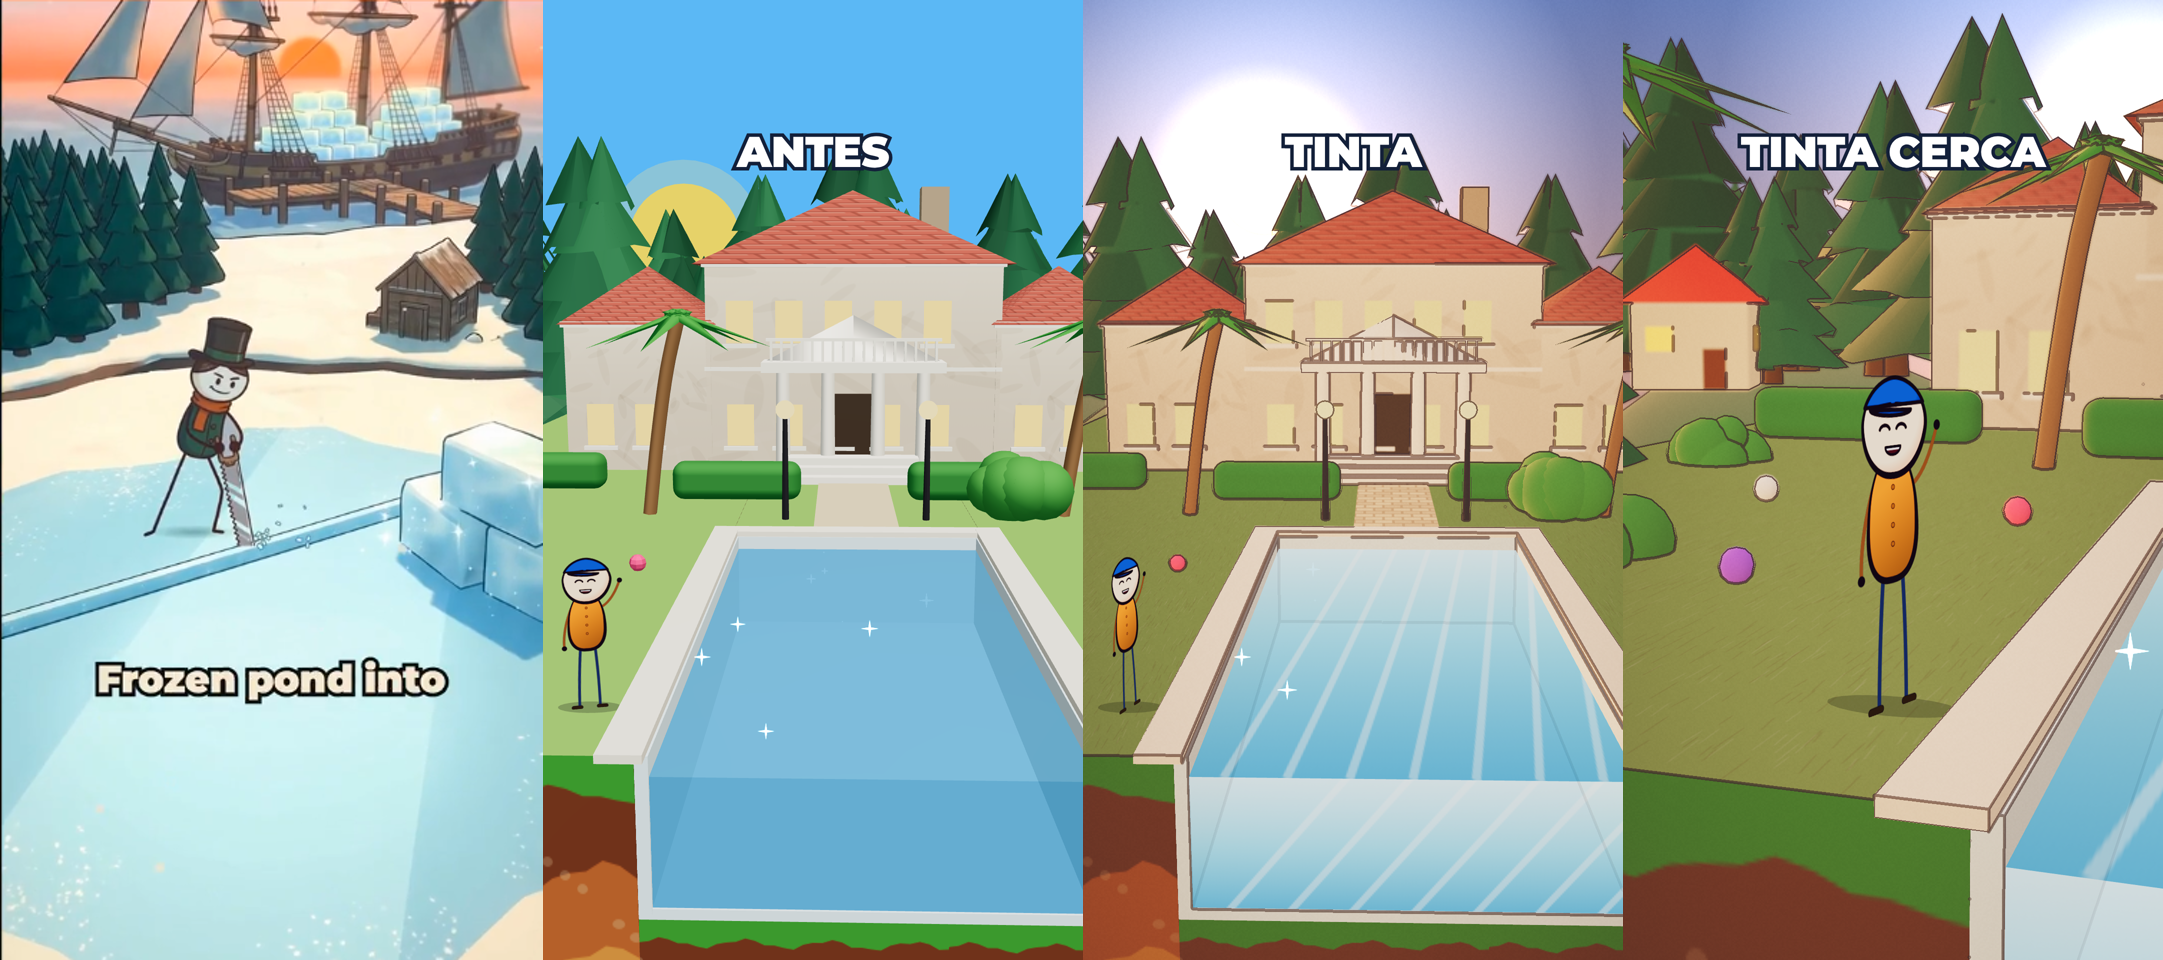
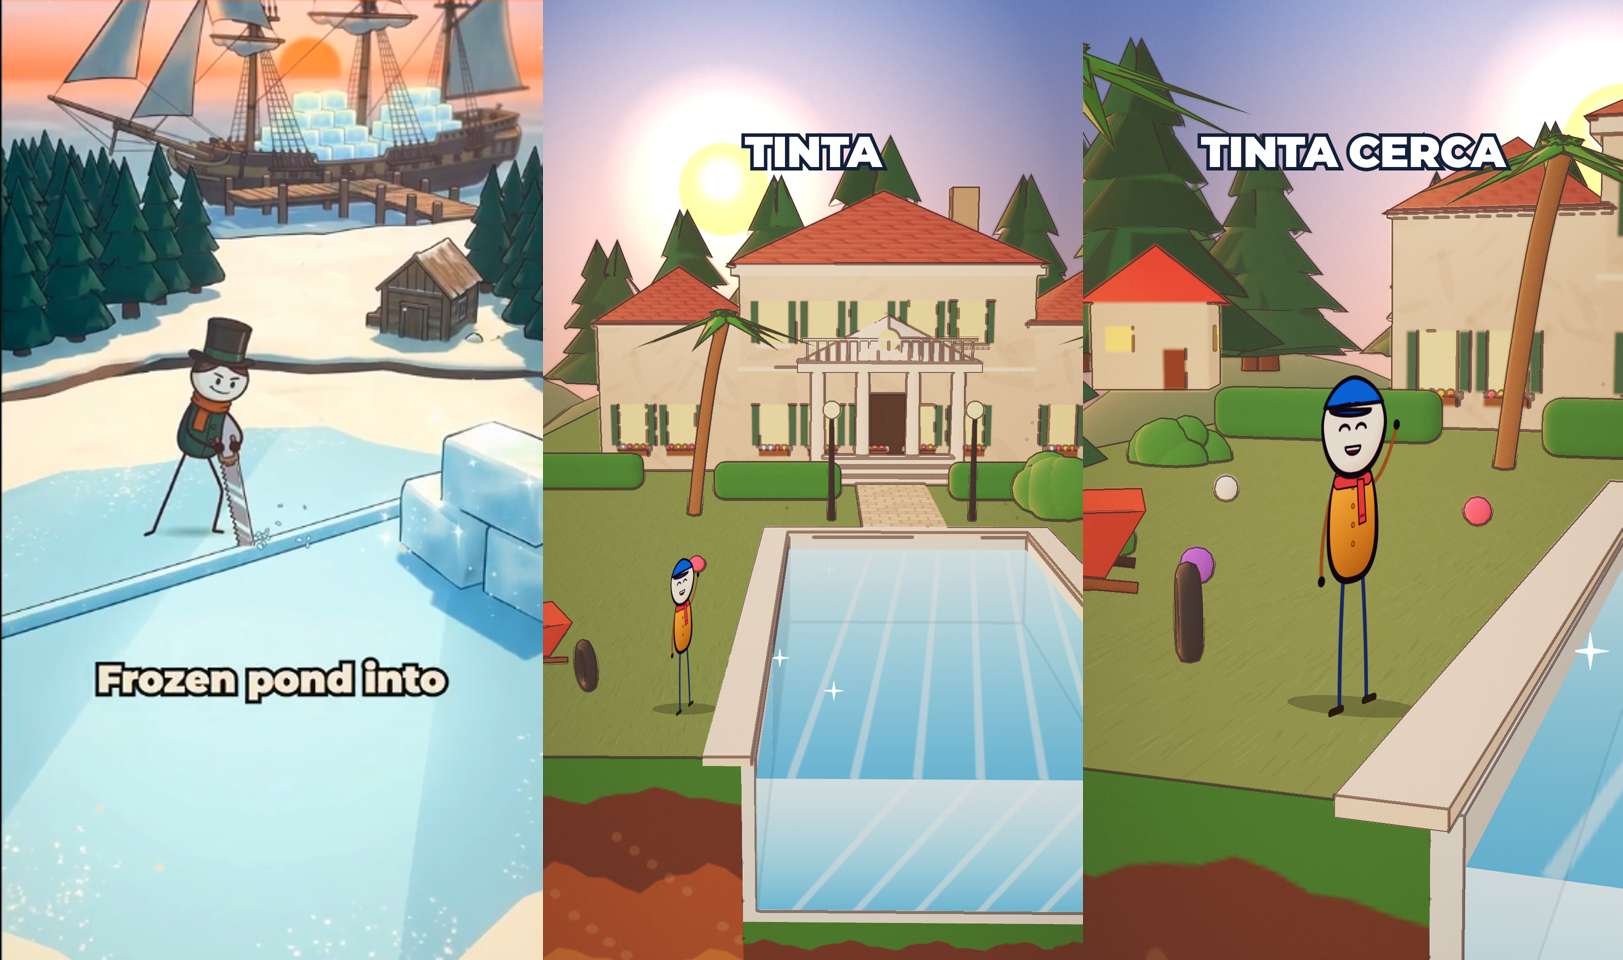
ink look v4: mansion details, scarf for Toon, site props, visible low sun
Claude-Session: https://claude.ai/code/session_01F2TMiqHjkL4xcRcZuEi5yT

diff --git a/videos/prueba-tinta/world3d.ts b/videos/prueba-tinta/world3d.ts
@@ -1,7 +1,7 @@
 // Look test for the "ink" style: the same backyard (cutaway, finished pool, worker) with a mansion and a rich background,
 // once in the channel's current look and once with the cartoon ink finish at sunset. Prefix pt.
 
-const PT_WORKER: Toon.Outfit = { jacket: '#ff8a1f', pants: '#2f5fb5', boots: '#3a2a1e', hat: 'cap', cap: '#1f5fd6' };
+const PT_WORKER: Toon.Outfit = { jacket: '#ff8a1f', pants: '#2f5fb5', boots: '#3a2a1e', hat: 'cap', cap: '#1f5fd6', scarf: '#d93b3b' };
 const ptSet = (w: World, ink: boolean) => {
   if (ink) inkLights(w, 'sunset'); else dioLights(w);
   // land: a block cut open at the front, the pool in the middle
@@ -22,14 +22,15 @@ const ptSet = (w: World, ink: boolean) => {
   const umb = new THREE.ConeGeometry(1.2, 0.5, 8); w.add(p3Mesh(umb, dioSmooth('#ff4b4b', 0.6), { p: [4.4, 2.1, -2.5] }));
   // far: neighbours, pines, hills, mountains, clouds, sun
   for (const [x, z, s] of [[-14, -22, 1.2], [13, -24, 1.3], [-20, -30, 1.1]]) w.add(dioHouse([x, 0, z], 0.3, s));
-  for (let i = 0; i < 60; i++) { const x = -30 + (i * 1.7) % 60, z = -24 - ((i * 7) % 5) * 2.2; w.add(inkPine([x, 0, z], 1.8 + ((i * 3) % 5) * 0.35, ['#1f5a3a', '#2a6b43', '#184d31'][i % 3], i + 1)); }
+  for (let i = 0; i < 60; i++) { const x = -30 + (i * 1.7) % 60, z = -24 - ((i * 7) % 5) * 2.2; if (x > -14 && x < -4 && z > -30) continue; w.add(inkPine([x, 0, z], 1.8 + ((i * 3) % 5) * 0.35, ['#1f5a3a', '#2a6b43', '#184d31'][i % 3], i + 1)); }
   for (const [x, z, s] of [[-8, -6, 1.3], [8.5, -3, 1.1], [-9, 1, 1.0]]) w.add(inkPine([x, 0, z], s, '#2a6b43'));
-  inkHills(w, -45, ['#2c6a47', '#356f4b', '#3d7a52']); if (ink) { w.add(inkSunGlow([-9, 12, -70], 50)); w.add(p3Mesh(new THREE.CircleGeometry(3.4, 32), new THREE.MeshBasicMaterial({ color: '#ffb066', fog: false }), { p: [-9, 11.5, -72] })); } else { const sun = w.add(dioSun()); sun.position.set(-10, 7, -58); sun.scale.setScalar(1.6); }
+  inkHills(w, -45, ['#2c6a47', '#356f4b', '#3d7a52']); if (ink) { w.add(inkSunGlow([-9, 12, -70], 50, '#ff9a55')); w.add(p3Mesh(new THREE.CircleGeometry(3.4, 32), new THREE.MeshBasicMaterial({ color: '#ff8c42', fog: false }), { p: [-9, 11.5, -72] })); } else { const sun = w.add(dioSun()); sun.position.set(-10, 7, -58); sun.scale.setScalar(1.6); }
+  if (ink) w.add(inkSiteProps([-4.3, 0, -1.2], 0.5));
   const worker = w.add(dioToon(PT_WORKER, 1.75, 4)); worker.position.set(-2.6, 0, -1.0);
   return { worker, spark };
 };
 defineVisuals({
-  antes: { bg: '#5bb8f5', build(w) { const S = ptSet(w, false); return (t) => { S.spark.pose(t * 3); S.worker.pose(w.camera, { expr: 'grin', mode: 'stand', wave: 1 }); w.look([-0.3, 3.8, 8.0], [-0.7, 0.9, -8], 50); }; } },
-  tinta: { bg: '#5bb8f5', build(w) { const S = ptSet(w, true); inkLook(w); return (t) => { S.spark.pose(t * 3); S.worker.pose(w.camera, { expr: 'grin', mode: 'stand', wave: 1 }); w.look([-0.3, 3.8, 8.0], [-0.7, 0.9, -8], 50); }; } },
+  antes: { bg: '#5bb8f5', build(w) { const S = ptSet(w, false); return (t) => { S.spark.pose(t * 3); S.worker.pose(w.camera, { expr: 'grin', mode: 'stand', wave: 1 }); w.look([-1.3, 3.8, 8.0], [-1.5, 0.9, -8], 50); }; } },
+  tinta: { bg: '#5bb8f5', build(w) { const S = ptSet(w, true); inkLook(w); return (t) => { S.spark.pose(t * 3); S.worker.pose(w.camera, { expr: 'grin', mode: 'stand', wave: 1 }); w.look([-1.3, 3.8, 8.0], [-1.5, 0.9, -8], 50); }; } },
   'tinta-cerca': { bg: '#5bb8f5', build(w) { const S = ptSet(w, true); inkLook(w, { focus: 6 }); return (t) => { S.spark.pose(t * 3); S.worker.pose(w.camera, { expr: 'grin', mode: 'stand', wave: 1 }); w.look([-1.0, 1.7, 4.0], [-2.6, 1.0, -1.0], 42); }; } },
 });

diff --git a/styles/3d/ink.ts b/styles/3d/ink.ts
@@ -142,6 +142,13 @@ const inkMansion = (p: Vec3, ry = 0, s = 1) => { const g = p3Group(), wall = ink
   // balcony rail on the first floor
   for (let x = -1.6; x <= 1.6; x += 0.2) g.add(p3Mesh(p3Box(0.05, 0.4, 0.05), trim, { p: [x, 2.52, 2.8] })); g.add(p3Mesh(p3Box(3.4, 0.06, 0.08), trim, { p: [0, 2.74, 2.8] }));
   g.add(p3Mesh(p3Box(0.6, 1.4, 0.6), dioSmooth('#b9a48a', 0.9), { p: [1.8, 5.2, -0.6] }));
+  // details: shutters, flower boxes under the ground-floor windows, a cornice band, a round window in the pediment
+  const shut = dioSmooth('#3f6e58', 0.7), box = dioSmooth('#8a5a34', 0.8), fl = ['#ff5d8f', '#ffd23f', '#ff8a3d'];
+  for (const [bx, bw, bz, bd, fls] of [[0, 6, 0, 3.6, 2], [-4.4, 3, 0.3, 3, 1], [4.4, 3, 0.3, 3, 1]] as const) for (let f = 0; f < fls; f++) for (let wx = -bw / 2 + 0.7; wx <= bw / 2 - 0.6; wx += 1.0) {
+    const y = 0.95 + f * (fls > 1 ? 2.1 : 3), zf = bz + bd / 2 + 0.03; for (const s2 of [-1, 1]) g.add(p3Mesh(p3Box(0.16, 0.85, 0.04), shut, { p: [bx + wx + s2 * 0.38, y, zf] }));
+    if (f === 0) { g.add(p3Mesh(p3Box(0.62, 0.14, 0.18), box, { p: [bx + wx, y - 0.55, zf + 0.08] })); for (let k = 0; k < 4; k++) g.add(p3Mesh(new THREE.SphereGeometry(0.06, 8, 6), fl[(k + Math.round(wx)) % 3], { p: [bx + wx - 0.21 + k * 0.14, y - 0.45, zf + 0.1] })); } }
+  g.add(p3Mesh(p3Box(6.3, 0.18, 3.9), trim, { p: [0, 4.05, 0] }));
+  g.add(p3Mesh(new THREE.CircleGeometry(0.22, 20), glass, { p: [0, 2.72, 2.47] }));
   g.position.set(...p); g.rotation.y = ry; g.scale.setScalar(s); return g; };
 
 // a soft glow round the low sun (drawn on top, no ink)
@@ -152,3 +159,12 @@ const inkSunGlow = (p: Vec3, size = 30, color = '#ffd29a') => { const t = p3Pain
 const inkWaterMat = (opacity = 0.86) => { const t = p3Paint(256, 256, (c) => { const g = c.createLinearGradient(0, 0, 0, 256); g.addColorStop(0, '#c9f1ff'); g.addColorStop(0.5, '#7fd0f0'); g.addColorStop(1, '#3f9fd6'); c.fillStyle = g; c.fillRect(0, 0, 256, 256);
     c.strokeStyle = 'rgba(255,255,255,0.35)'; c.lineWidth = 5; for (let i = 0; i < 7; i++) { c.beginPath(); const x = 20 + i * 36; c.moveTo(x, 256); c.lineTo(x + 70, 0); c.stroke(); } });
   t.colorSpace = THREE.SRGBColorSpace; return new THREE.MeshBasicMaterial({ map: t, transparent: true, opacity, depthWrite: false }); };
+
+// foreground clutter for a building site: a wheelbarrow, cement sacks, a toolbox (r: turn)
+const inkSiteProps = (p: Vec3, r = 0) => { const g = p3Group(), metal = dioSmooth('#d8553f', 0.6), dark = dioSmooth('#33363d', 0.6), sack = inkTex('plaster', '#e8dcc2');
+  const tray = new THREE.CylinderGeometry(0.55, 0.32, 0.4, 4, 1, true); tray.rotateY(Math.PI / 4); tray.scale(1.4, 1, 1); const t = p3Mesh(tray, metal, { p: [0, 0.6, 0] }); (t.material as THREE.Material).side = THREE.DoubleSide; g.add(t);
+  g.add(p3Mesh(new THREE.TorusGeometry(0.2, 0.06, 8, 16), dark, { p: [0.75, 0.22, 0], r: [0, Math.PI / 2, 0] }));
+  for (const s of [-1, 1]) { g.add(p3Rod([0.5, 0.42, s * 0.3], [-0.9, 0.62, s * 0.36], 0.03, dioSmooth('#8a5a34', 0.7), 6)); g.add(p3Rod([-0.2, 0.42, s * 0.25], [-0.25, 0, s * 0.28], 0.03, dark, 6)); }
+  for (const [x, z, ry] of [[-1.6, -0.9, 0.3], [-1.7, -1.6, -0.2], [-1.65, -1.25, 0.1]]) { const m = p3Mesh(new THREE.RoundedBoxGeometry(0.75, 0.24, 0.45, 2, 0.08), sack, { p: [x, x === -1.65 ? 0.36 : 0.12, z] }); m.rotation.y = ry; g.add(m); }
+  g.add(p3Mesh(new THREE.RoundedBoxGeometry(0.6, 0.3, 0.3, 2, 0.04), dioSmooth('#2f5fb5', 0.5), { p: [-1.3, 0.15, 0.5] }));
+  g.position.set(...p); g.rotation.y = r; return g; };

diff --git a/styles/3d/toon.ts b/styles/3d/toon.ts
@@ -18,7 +18,7 @@ const SH_FELT: C3 = [0.62, 0.62, 0.7];
 export type Build = "adult" | "stout" | "kid";
 export type Outfit = {
   jacket: string; pants: string; boots: string; hat?: string | null; belt?: string | null; buttons?: string; rifle?: boolean;
-  sash?: string; sword?: boolean; moustache?: string; skin?: string; head?: number; cap?: string; hair?: string; dress?: string;
+  sash?: string; scarf?: string; sword?: boolean; moustache?: string; skin?: string; head?: number; cap?: string; hair?: string; dress?: string;
   build?: Build;
 };
 type P2 = [number, number];
@@ -570,6 +570,12 @@ export const bodyFront = (p: Pen, o: Outfit, opts: FrontOpts) => {
     });
     if (o.sash) { const s = facing || 1; p.poly([[tcx + s * 0.55 * T.a, torsoBot - 0.3 * HH], [tcx + s * 0.75 * T.a, torsoBot + 0.05 * HH], [tcx + s * 0.45 * T.a, torsoBot + 0.02 * HH]], o.sash, 1.6 * u); }
     p.inkRing(tp, ow, thick);
+  }
+  if (o.scarf && !dress) { // a scarf round the neck, one end hanging on the side the body faces
+    const y = chin + 0.05 * HH, s = facing || 1;
+    p.band([[tcx - 0.62 * T.a, y], [tcx + 0.62 * T.a, y]], o.scarf, 0.12 * HH, 1.8 * u, "round");
+    p.poly([[tcx + s * 0.18 * T.a, y], [tcx + s * 0.46 * T.a, y], [tcx + s * 0.56 * T.a, y + 0.46 * HH], [tcx + s * 0.26 * T.a, y + 0.48 * HH]], o.scarf, 1.8 * u);
+    p.band([[tcx + s * 0.24 * T.a, y + 0.4 * HH], [tcx + s * 0.55 * T.a, y + 0.38 * HH]], shade(o.scarf, 0.7), 2.5 * u, 0);
   }
   // in front of the body: hands holding props
   for (const a of arms) if (a.front) {
